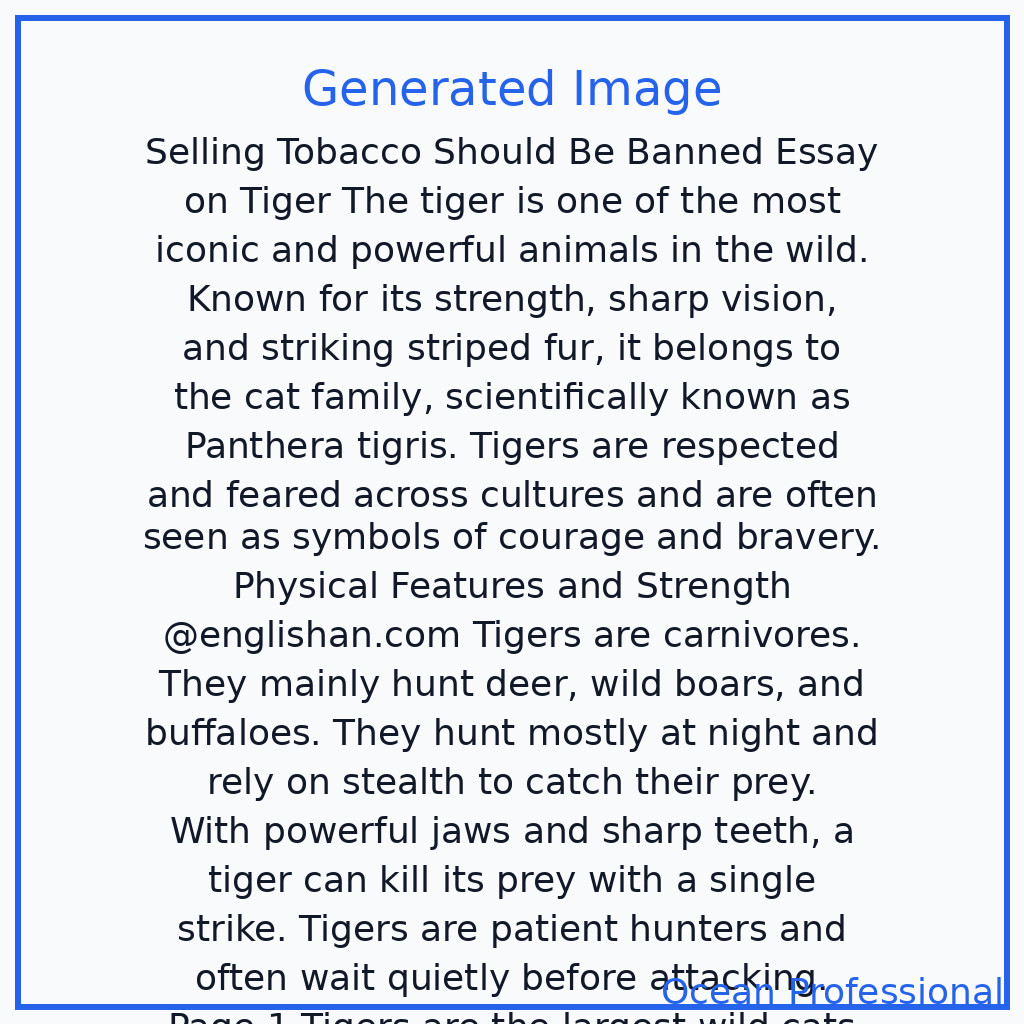
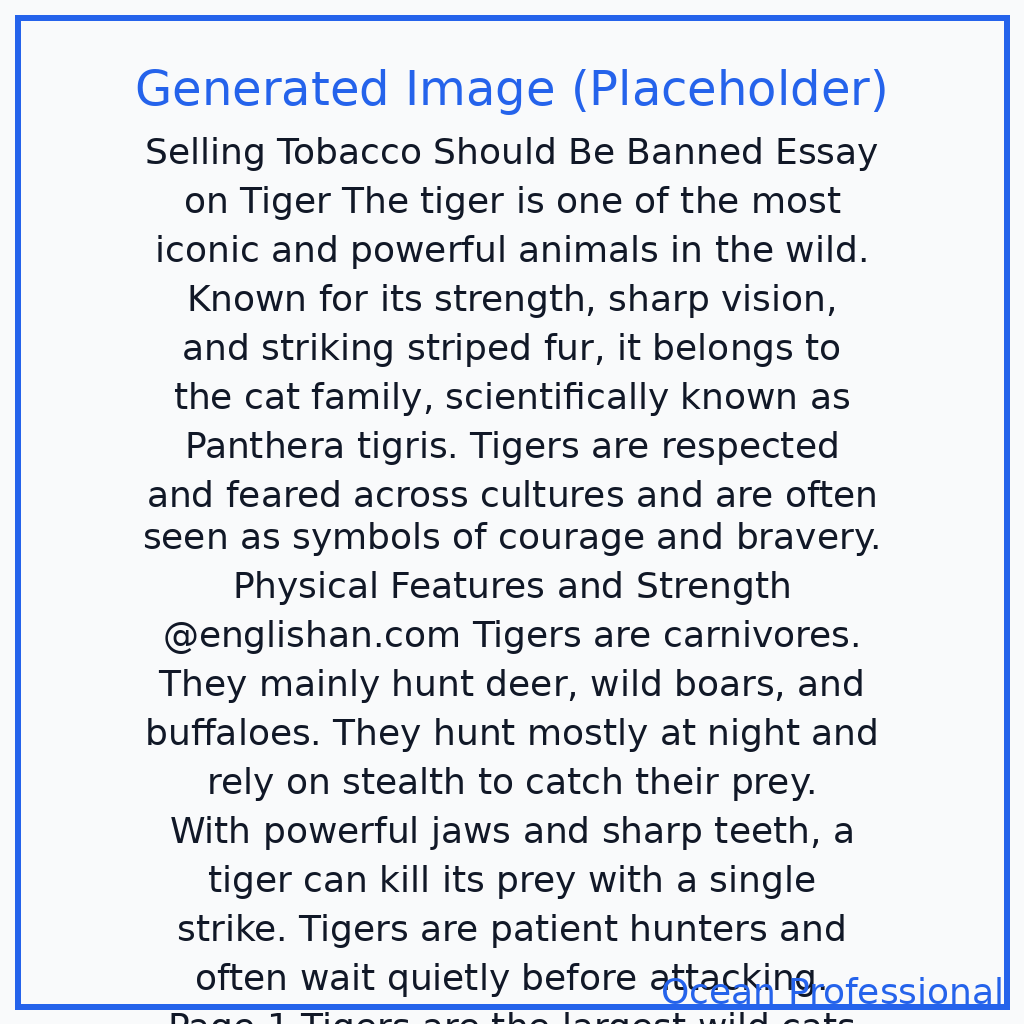
CheckPoint - cg2fe4e153

Changed region(s): [[0.125, 0.0625, 0.875, 0.125]]

diff --git a/python_console_app/api/agents/lyricist_agent.py b/python_console_app/api/agents/lyricist_agent.py
@@ -3,6 +3,8 @@ from typing import Optional, Tuple
 import textwrap
 import os
 import base64
+import json
+import traceback
 
 # Optional external APIs (lazy import in methods)
 try:
@@ -74,26 +76,36 @@ class LyricistAgent:
 
         # Attempt external AI generation as requested
         api_errors = []
+        # Track which providers were attempted and the prompt used, for clear diagnostics
+        attempted = []
+
         if replicate_token:
+            attempted.append("Replicate")
             try:
                 self._generate_with_replicate(description, output_path)
-                if os.path.exists(output_path):
-                    return ImageResult(success=True, image_path=output_path, details="Generated via Replicate")
+                if os.path.exists(output_path) and os.path.getsize(output_path) > 0:
+                    return ImageResult(success=True, image_path=output_path, details=f"Generated via Replicate | prompt snippet: {description[:80]}")
+                else:
+                    raise RuntimeError("Replicate returned no image bytes or file is empty.")
             except Exception as e:
-                api_errors.append(f"Replicate failed: {e}")
+                api_errors.append(f"Replicate failed: {e}\n{traceback.format_exc(limit=1)}")
 
         if openai_key:
+            attempted.append("OpenAI")
             try:
-                self._generate_with_openai(description, output_path)
-                if os.path.exists(output_path):
-                    return ImageResult(success=True, image_path=output_path, details="Generated via OpenAI")
+                provider_detail = self._generate_with_openai(description, output_path)
+                if os.path.exists(output_path) and os.path.getsize(output_path) > 0:
+                    # provider_detail indicates whether b64 or url was used and which model
+                    return ImageResult(success=True, image_path=output_path, details=f"Generated via OpenAI ({provider_detail}) | prompt snippet: {description[:80]}")
+                else:
+                    raise RuntimeError("OpenAI returned no image bytes or file is empty.")
             except Exception as e:
-                api_errors.append(f"OpenAI failed: {e}")
+                api_errors.append(f"OpenAI failed: {e}\n{traceback.format_exc(limit=1)}")
 
         # Fallback to Pillow rendering if APIs are not configured or failed
         if Image is None or ImageDraw is None or ImageFont is None:
             # Even fallback needs Pillow; if missing, return error with setup instructions
-            details = " | ".join(api_errors) if api_errors else "No API keys configured."
+            details = f"Attempted: {', '.join(attempted) or 'none'} | " + (" | ".join(api_errors) if api_errors else "No API keys configured.")
             return ImageResult(
                 success=False,
                 error="No image generated. Pillow not installed and external APIs unavailable/failed.",
@@ -103,15 +115,16 @@ class LyricistAgent:
         try:
             self._render_placeholder(description, output_path)
         except Exception as e:
-            details = " | ".join(api_errors) if api_errors else "No API keys configured."
+            details = f"Attempted: {', '.join(attempted) or 'none'} | " + (" | ".join(api_errors) if api_errors else "No API keys configured.")
             return ImageResult(success=False, error="Failed to generate image (fallback).", details=f"{details} | {e}")
 
         if not os.path.exists(output_path):
-            details = " | ".join(api_errors) if api_errors else "No API keys configured."
+            details = f"Attempted: {', '.join(attempted) or 'none'} | " + (" | ".join(api_errors) if api_errors else "No API keys configured.")
             return ImageResult(success=False, error="Image file not created.", details=f"{details} Tried: {output_path}")
 
-        suffix = " (fallback placeholder)" if api_errors or (not replicate_token and not openai_key) else ""
-        return ImageResult(success=True, image_path=output_path, details=f"Rendered locally{suffix}")
+        suffix = " (fallback placeholder)"
+        # Explicitly indicate fallback usage in details so user can distinguish
+        return ImageResult(success=True, image_path=output_path, details=f"Rendered locally{suffix} | prompt snippet: {description[:80]}")
 
     # --- External integrations ---
 
@@ -120,46 +133,35 @@ class LyricistAgent:
         Generate an image using Replicate. Requires REPLICATE_API_TOKEN.
         Optional env: REPLICATE_MODEL (defaults to a common SDXL model).
         """
-        import json
         import time
-
-        # Lazy import to avoid hard dependency if not used
         import requests
 
         token = os.getenv("REPLICATE_API_TOKEN", "").strip()
         if not token:
             raise RuntimeError("REPLICATE_API_TOKEN not set")
 
-        # Default model: stability-ai/sdxl (public popular Stable Diffusion XL runner on Replicate)
-        # Users can override via REPLICATE_MODEL to pick another model/version.
         model = os.getenv("REPLICATE_MODEL", "stability-ai/sdxl")
-        # Replicate API format: POST /v1/predictions with {"version": <model_version or model slug>, "input": {...}}
-        # For simplicity, use model directly; Replicate also supports owner/model:version hash.
-        # Many hosted models accept "prompt" and return an array of image URLs in "output".
         api_url = "https://api.replicate.com/v1/predictions"
         headers = {
             "Authorization": f"Token {token}",
             "Content-Type": "application/json",
         }
 
-        # Input arguments vary by model; SDXL types typically support prompt and aspect ratio/size.
         payload = {
             "version": model,
             "input": {
                 "prompt": prompt,
-                # Some models support additional params; keep minimal for compatibility.
-                # For certain models, you may pass size like "image_dimensions": os.getenv("IMAGE_SIZE", "1024x1024")
             }
         }
 
-        resp = requests.post(api_url, headers=headers, data=json.dumps(payload), timeout=60)
+        resp = requests.post(api_url, headers=headers, json=payload, timeout=60)
         if resp.status_code not in (200, 201):
             raise RuntimeError(f"Replicate API create prediction failed: {resp.status_code} {resp.text}")
 
         prediction = resp.json()
         get_url = prediction.get("urls", {}).get("get")
         if not get_url:
-            raise RuntimeError(f"Unexpected Replicate response: {prediction}")
+            raise RuntimeError(f"Unexpected Replicate response (no polling URL): {json.dumps(prediction)}")
 
         # Poll until completed
         for _ in range(60):
@@ -170,16 +172,14 @@ class LyricistAgent:
             status = pdata.get("status")
             if status in ("succeeded", "failed", "canceled"):
                 if status != "succeeded":
-                    raise RuntimeError(f"Replicate prediction status: {status} details={pdata}")
+                    raise RuntimeError(f"Replicate prediction status: {status} details={json.dumps(pdata)}")
                 output = pdata.get("output")
-                # Expect output to be a list of URLs; download the first
                 if not output:
-                    raise RuntimeError(f"Replicate returned no output: {pdata}")
+                    raise RuntimeError(f"Replicate returned no output: {json.dumps(pdata)}")
                 first_url = output[0] if isinstance(output, list) else output
-                # Download image
                 img_resp = requests.get(first_url, timeout=60)
                 if img_resp.status_code != 200:
-                    raise RuntimeError(f"Failed to download image from Replicate URL: {img_resp.status_code}")
+                    raise RuntimeError(f"Failed to download image from Replicate URL: {img_resp.status_code} {img_resp.text[:200]}")
                 with open(output_path, "wb") as f:
                     f.write(img_resp.content)
                 return
@@ -187,77 +187,110 @@ class LyricistAgent:
 
         raise RuntimeError("Replicate prediction timed out")
 
-    def _generate_with_openai(self, prompt: str, output_path: str) -> None:
+    def _generate_with_openai(self, prompt: str, output_path: str) -> str:
         """
         Generate an image using OpenAI Images API. Requires OPENAI_API_KEY.
-        Tries gpt-image-1 / dall-e-3 depending on available client.
-        """
-        import json
+        Supports new SDK (openai>=1.*) and legacy import fallback.
 
+        Returns:
+            A detail string indicating transport (b64/url) and model used on success.
+        """
         api_key = os.getenv("OPENAI_API_KEY", "").strip()
         if not api_key:
             raise RuntimeError("OPENAI_API_KEY not set")
 
-        # Two possibilities depending on openai package version; keep flexible
+        # Try new SDK first
         try:
-            # Newer OpenAI Python SDK (client = OpenAI())
             from openai import OpenAI  # type: ignore
             client = OpenAI(api_key=api_key)
             model = os.getenv("OPENAI_IMAGE_MODEL", "gpt-image-1")
             size = os.getenv("IMAGE_SIZE", "1024x1024")
+
+            # Validate size format for clarity
+            if "x" not in size:
+                size = "1024x1024"
+
             result = client.images.generate(
                 model=model,
                 prompt=prompt,
                 size=size,
                 n=1,
             )
-            # In newer SDK, b64 data is often at result.data[0].b64_json or URL
             data0 = result.data[0]
-            if hasattr(data0, "b64_json") and data0.b64_json:
-                b64 = data0.b64_json
-                img_bytes = base64.b64decode(b64)
+
+            if getattr(data0, "b64_json", None):
+                img_bytes = base64.b64decode(data0.b64_json)
                 with open(output_path, "wb") as f:
                     f.write(img_bytes)
-                return
-            if hasattr(data0, "url") and data0.url:
+                return f"b64_json; model={model}; size={size}"
+
+            if getattr(data0, "url", None):
                 import requests
                 img_resp = requests.get(data0.url, timeout=60)
                 if img_resp.status_code != 200:
-                    raise RuntimeError(f"Failed to download image from OpenAI URL: {img_resp.status_code}")
+                    raise RuntimeError(f"Failed to download image from OpenAI URL: {img_resp.status_code} {img_resp.text[:200]}")
                 with open(output_path, "wb") as f:
                     f.write(img_resp.content)
-                return
-            raise RuntimeError(f"OpenAI Images returned unexpected payload: {json.dumps(result.model_dump() if hasattr(result, 'model_dump') else result)}")
+                return f"url; model={model}; size={size}"
+
+            # If neither field is present, include raw-ish structure for debugging
+            try:
+                raw_dump = result.model_dump()
+            except Exception:
+                raw_dump = str(result)
+            raise RuntimeError(f"OpenAI Images returned unexpected payload: {raw_dump}")
+
         except Exception as e_new:
-            # Fallback to legacy openai lib if present
+            # Legacy fallback: old import style
             try:
                 import openai  # type: ignore
                 openai.api_key = api_key
                 model = os.getenv("OPENAI_IMAGE_MODEL", "dall-e-3")
                 size = os.getenv("IMAGE_SIZE", "1024x1024")
-                result = openai.images.generate(
-                    model=model,
-                    prompt=prompt,
-                    size=size,
-                    n=1,
-                )
-                data0 = result["data"][0]
+                if "x" not in size:
+                    size = "1024x1024"
+
+                # In some older SDKs, the call is openai.Image.create; in newer legacy, it's openai.images.generate
+                detail = ""
+                try:
+                    # Preferred legacy method per >=1.x compatibility layer
+                    result = openai.images.generate(
+                        model=model,
+                        prompt=prompt,
+                        size=size,
+                        n=1,
+                    )
+                    data0 = result["data"][0]
+                    detail = "images.generate"
+                except Exception:
+                    # Older fallback method
+                    result = openai.Image.create(
+                        prompt=prompt,
+                        n=1,
+                        size=size,
+                    )
+                    data0 = result["data"][0]
+                    detail = "Image.create"
+
                 if "b64_json" in data0 and data0["b64_json"]:
                     img_bytes = base64.b64decode(data0["b64_json"])
                     with open(output_path, "wb") as f:
                         f.write(img_bytes)
-                    return
+                    return f"b64_json; model={model}; size={size}; via={detail}"
+
                 if "url" in data0 and data0["url"]:
                     import requests
                     img_resp = requests.get(data0["url"], timeout=60)
                     if img_resp.status_code != 200:
-                        raise RuntimeError(f"Failed to download image from OpenAI URL: {img_resp.status_code}")
+                        raise RuntimeError(f"Failed to download image from OpenAI URL: {img_resp.status_code} {img_resp.text[:200]}")
                     with open(output_path, "wb") as f:
                         f.write(img_resp.content)
-                    return
-                raise RuntimeError(f"OpenAI Images returned unexpected payload: {result}")
+                    return f"url; model={model}; size={size}; via={detail}"
+
+                raise RuntimeError(f"OpenAI Images (legacy) returned unexpected payload: {json.dumps(result)}")
+
             except Exception as e_legacy:
-                raise RuntimeError(f"OpenAI generation failed: {e_new} | legacy attempt: {e_legacy}")
+                raise RuntimeError(f"OpenAI generation failed (new SDK): {e_new} | legacy attempt: {e_legacy}")
 
     # --- Local placeholder rendering ---
 
@@ -266,6 +299,9 @@ class LyricistAgent:
         Create a simple poster-like image with the text centered, wrapped nicely.
         """
         W, H = self.DEFAULT_SIZE
+        if Image is None:
+            raise RuntimeError("Pillow not installed for fallback rendering.")
+
         img = Image.new("RGB", (W, H), self.DEFAULT_BG)
         draw = ImageDraw.Draw(img)
 
@@ -287,7 +323,6 @@ class LyricistAgent:
 
         # Title
         title = "Generated Image (Placeholder)"
-        title_font = None
         try:
             title_font = ImageFont.truetype("DejaVuSans.ttf", 48)
         except Exception:

diff --git a/python_console_app/api/management/commands/youtube_lyrics.py b/python_console_app/api/management/commands/youtube_lyrics.py
@@ -94,7 +94,15 @@ class Command(BaseCommand):
                 self._set_return_code(1)
                 return
 
-            success(f"Image generated successfully and saved to '{ires.image_path}'.")
+            # Explicitly inform whether this was an AI-generated image or local fallback
+            if ires.details and "Rendered locally (fallback placeholder)" in ires.details:
+                success(f"Image saved to '{ires.image_path}' (LOCAL PLACEHOLDER).")
+                info(f"Generator details: {ires.details}")
+            else:
+                success(f"Image saved to '{ires.image_path}' (AI GENERATED).")
+                info(f"Generator details: {ires.details or 'No extra details'}")
+            # Also show the first part of the prompt used
+            info(f"Prompt used (snippet): {(wres.description or '')[:120]}...")
             info("Done.")
             self._set_return_code(0)
         finally:
